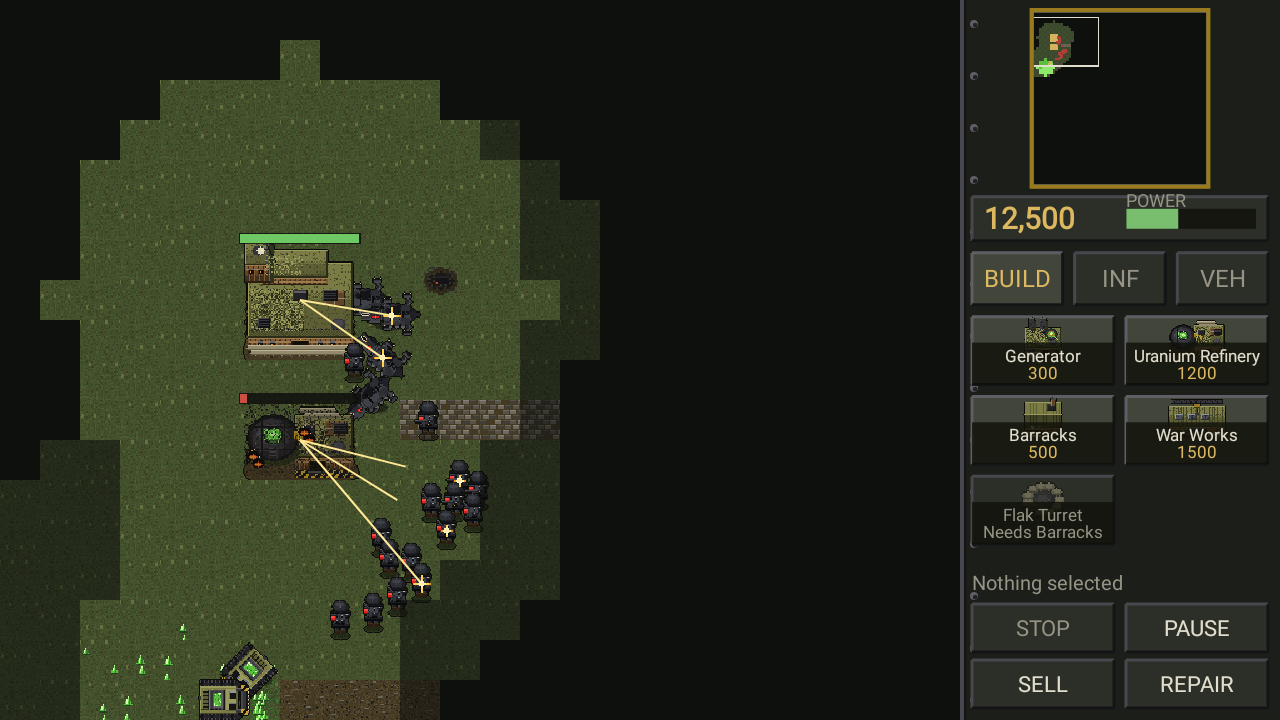
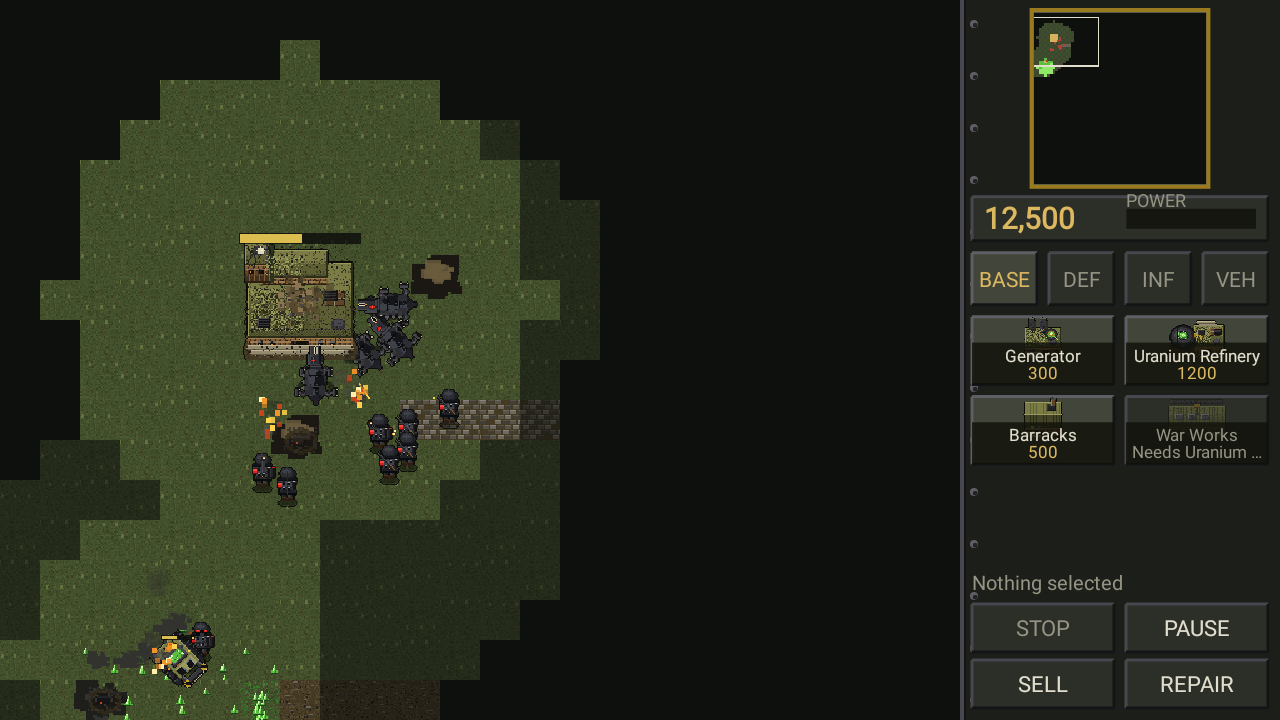
Document Part 2 and refresh the screenshot
Both rosters, the asymmetric toolkit and its two new orders, the two new
defences, the effects layer, and the balance the sweep actually returned:
Kreisau 3, Totenkopf 5, two that ran the clock out, both of those live
attrition rather than economic deadlock.

Screenshot retaken from a rendered match frame so it shows the effects
layer and the four-tab sidebar.

diff --git a/README.md b/README.md
@@ -8,6 +8,11 @@ An open-source fan project. Base building, harvesting, tech prerequisites, power
 sell and repair, a weapon-versus-armour counter system and a skirmish AI that builds, defends,
 repairs and sends attack waves — all on a touchscreen.
 
+The two sides do not mirror each other. The Regime fields fewer unit types, each tougher and
+dearer. The Resistance answers with the thing that makes their fiction work: they **steal the
+Regime's tech and switch it off** — hijacking vehicles outright, sabotaging structures and
+freezing walkers, and moving unseen until they fire.
+
 ![the battlefield](docs/screenshot-match.png)
 
 > **Art.** Every pixel is generated by code in this repository — there are no image files, and
@@ -47,6 +52,15 @@ Landscape, one skirmish against the AI on Kreisau Valley. You are the Resistance
 | Tap a structure, then the ground | Set its rally point |
 | SELL, then tap a structure | Sell it back for half its cost, scaled by how intact it is |
 | REPAIR, then tap a structure | Pay by the instalment to patch it up |
+| Infiltrator selected, tap an enemy vehicle | Hijack it — permanently, and the Infiltrator is spent |
+| Saboteur selected, tap a structure or walker | Switch it off for a while |
+
+**Asymmetry, in practice.** A hijacked Sturmpanzer is the only heavy tank the Resistance will
+ever field, and it costs them a 600-credit Infiltrator to take one. A sabotaged generator
+produces no power and a sabotaged War Works produces nothing at all, which is how six partisans
+take a position that would eat sixty. Stealthy units are untargetable while they hold still and
+hold fire; step into their reveal radius, or wait for them to shoot, and they are just infantry
+again. Anything switched off takes a cold cast and arcs visibly, so both players can see it.
 
 **Power matters.** A shortfall does not switch the base off — it slows every production line,
 *and takes your defences offline entirely*. Bombing generators is a real strategy, in both
@@ -66,16 +80,38 @@ Structures are shared. The Command Post is pre-placed; everything else needs it 
 | Uranium Refinery | 1200 | Arrives with a free harvester |
 | Barracks | 500 | Infantry |
 | War Works | 1500 | Vehicles and harvesters; needs a refinery |
-| Flak Turret | 600 | Outranges every mobile unit; dies with the power |
+| Flak Turret | 600 | General purpose; outranges every mobile unit; dies with the power |
+| MG Nest | 350 | Cheap, anti-infantry only |
+| Pak Gun | 700 | Anti-vehicle; poor against infantry; needs a War Works |
 
-| Kreisau Circle | Cost | | Totenkopf Division | Cost |
-|---|---|---|---|---|
-| Partisan — rifle infantry | 120 | | Soldat — line infantry | 110 |
-| Panzerschreck Team — anti-armour | 300 | | Ubersoldat — armoured walker | 800 |
-| Scout Jeep — fast, thin-skinned | 400 | | Panzerhund — fast mech-hound | 500 |
-| Captured Panzer — heavy armour | 1000 | | | |
+**Kreisau Circle** — six infantry, improvised and specialised, plus what they steal.
 
-Rifles shred infantry and bounce off plate; rockets do the reverse. The whole matrix lives in
+| Unit | Cost | Role |
+|---|---|---|
+| Partisan | 120 | Rifle line infantry |
+| Panzerschreck Team | 300 | Anti-armour |
+| Grenadier | 280 | Thrown charges with a blast radius — the answer to massed Soldaten |
+| Marksman | 350 | Long range, brutal against infantry, useless against plate. Stealthy |
+| Saboteur | 450 | Unarmed. Disables a structure or freezes an Ubersoldat |
+| Infiltrator | 600 | Unarmed. Hijacks an enemy vehicle permanently. Stealthy |
+| Scout Jeep | 400 | Fast, thin-skinned |
+| Captured Panzer | 1000 | Heavy armour |
+
+**Totenkopf Division** — four infantry, heavy and expensive, and the armour to match.
+
+| Unit | Cost | Role |
+|---|---|---|
+| Soldat | 110 | Line infantry |
+| Scharfschütze | 420 | Counter-sniper. Stealthy |
+| Sturmpionier | 500 | Flamethrower — shreds infantry and structures, dies to anything at range |
+| Ubersoldat | 800 | Armoured walker |
+| Panzerhund | 500 | Fast mech-hound |
+| Sturmpanzer | 900 | Heavy tank. The Resistance has no equivalent — and every reason to steal one |
+
+Both sides also build the Harvester (1000).
+
+Rifles shred infantry and bounce off plate; rockets do the reverse; sniper rounds are savage
+against flesh and near-useless against anything plated. The whole matrix lives in
 `DamageTable`, and every stat lives in `UnitType` and `BuildingType` — those three files are
 the entire balance surface.
 
@@ -107,6 +143,7 @@ That is why the whole game can be driven from a test with no screen attached, an
 | `core.ai` | The skirmish opponent |
 | `app.art` | Palette, pixel canvas, sprite recipes, the baked atlas |
 | `app.render` | Camera, world renderer, HUD, minimap |
+| `app.fx` | Particles, ground decals, projectiles, and the director that drives them |
 
 `GameWorld` steps at a fixed 20 Hz and is deterministic for a given seed. The renderer
 interpolates between ticks, so the simulation rate is invisible on a 60 or 120 Hz screen.
@@ -129,20 +166,33 @@ Plays a full AI-versus-AI match as fast as the CPU allows and prints a scoreboar
 simulated minute — the quickest way to see whether a balance change changed anything.
 
 ```bash
-./gradlew :core:test                # 65 tests: rules, pathfinding, economy, the seam
-./gradlew :app:testDebugUnitTest    # 15 tests: camera maths, plus Robolectric rendering
+./gradlew :core:test                # 82 tests: rules, pathfinding, economy, the seam
+./gradlew :app:testDebugUnitTest    # 26 tests: camera maths, plus Robolectric rendering
 ```
 
 The app tests **render real frames and every sprite** into `app/build/test-frames/*.png` —
 contact sheets of the whole sprite set, and in-game frames. On a build machine with no
 emulator, reviewing those PNGs is the art and layout review, and it has caught plenty:
 vehicles torn apart by naive rotation, a harvester whose hopper read as a hole, buttons running
-off the bottom of the screen, and a build ghost buried under a green wash.
+off the bottom of the screen, and a build ghost buried under a green wash. The effects layer
+gets the same treatment: `EffectsContactSheetTest` lays every weapon class from muzzle to
+impact, every death staged over time, every ground mark fresh through faded and every particle
+kind side by side, which is how blood decals were caught drawing as a solid brick and
+explosions as grey cauliflowers with their own fire buried underneath.
 
 ## Status
 
 **Part 1, the base game, is complete**: the full C&C loop — build, harvest, produce, fight,
 sell, repair, win — behind a formal command seam, with the whole visual layer rebuilt.
 
-Not yet built, each its own part: audio, campaign and mission scripting, more maps, save/load,
-veterancy and stances, multiplayer.
+**Part 2 is complete**: real rosters for both sides, the Resistance's asymmetric toolkit
+(hijack, sabotage, stealth), splash damage and two new weapon classes, two new defences, a
+four-tab sidebar, and a combat effects layer with its own visual language per weapon.
+
+Balance after the roster change, over ten seeds of forty simulated minutes each: Kreisau 3,
+Totenkopf 5, two that ran the clock out. Both of those were live attrition — full economies,
+eleven structures a side, twenty units in the field — not an economic deadlock.
+
+**Part 3 is the air layer**: helicopters, AA weapons, air-only defences. Then, each its own
+part: audio, campaign and mission scripting, more maps, save/load, veterancy and stances,
+multiplayer.
